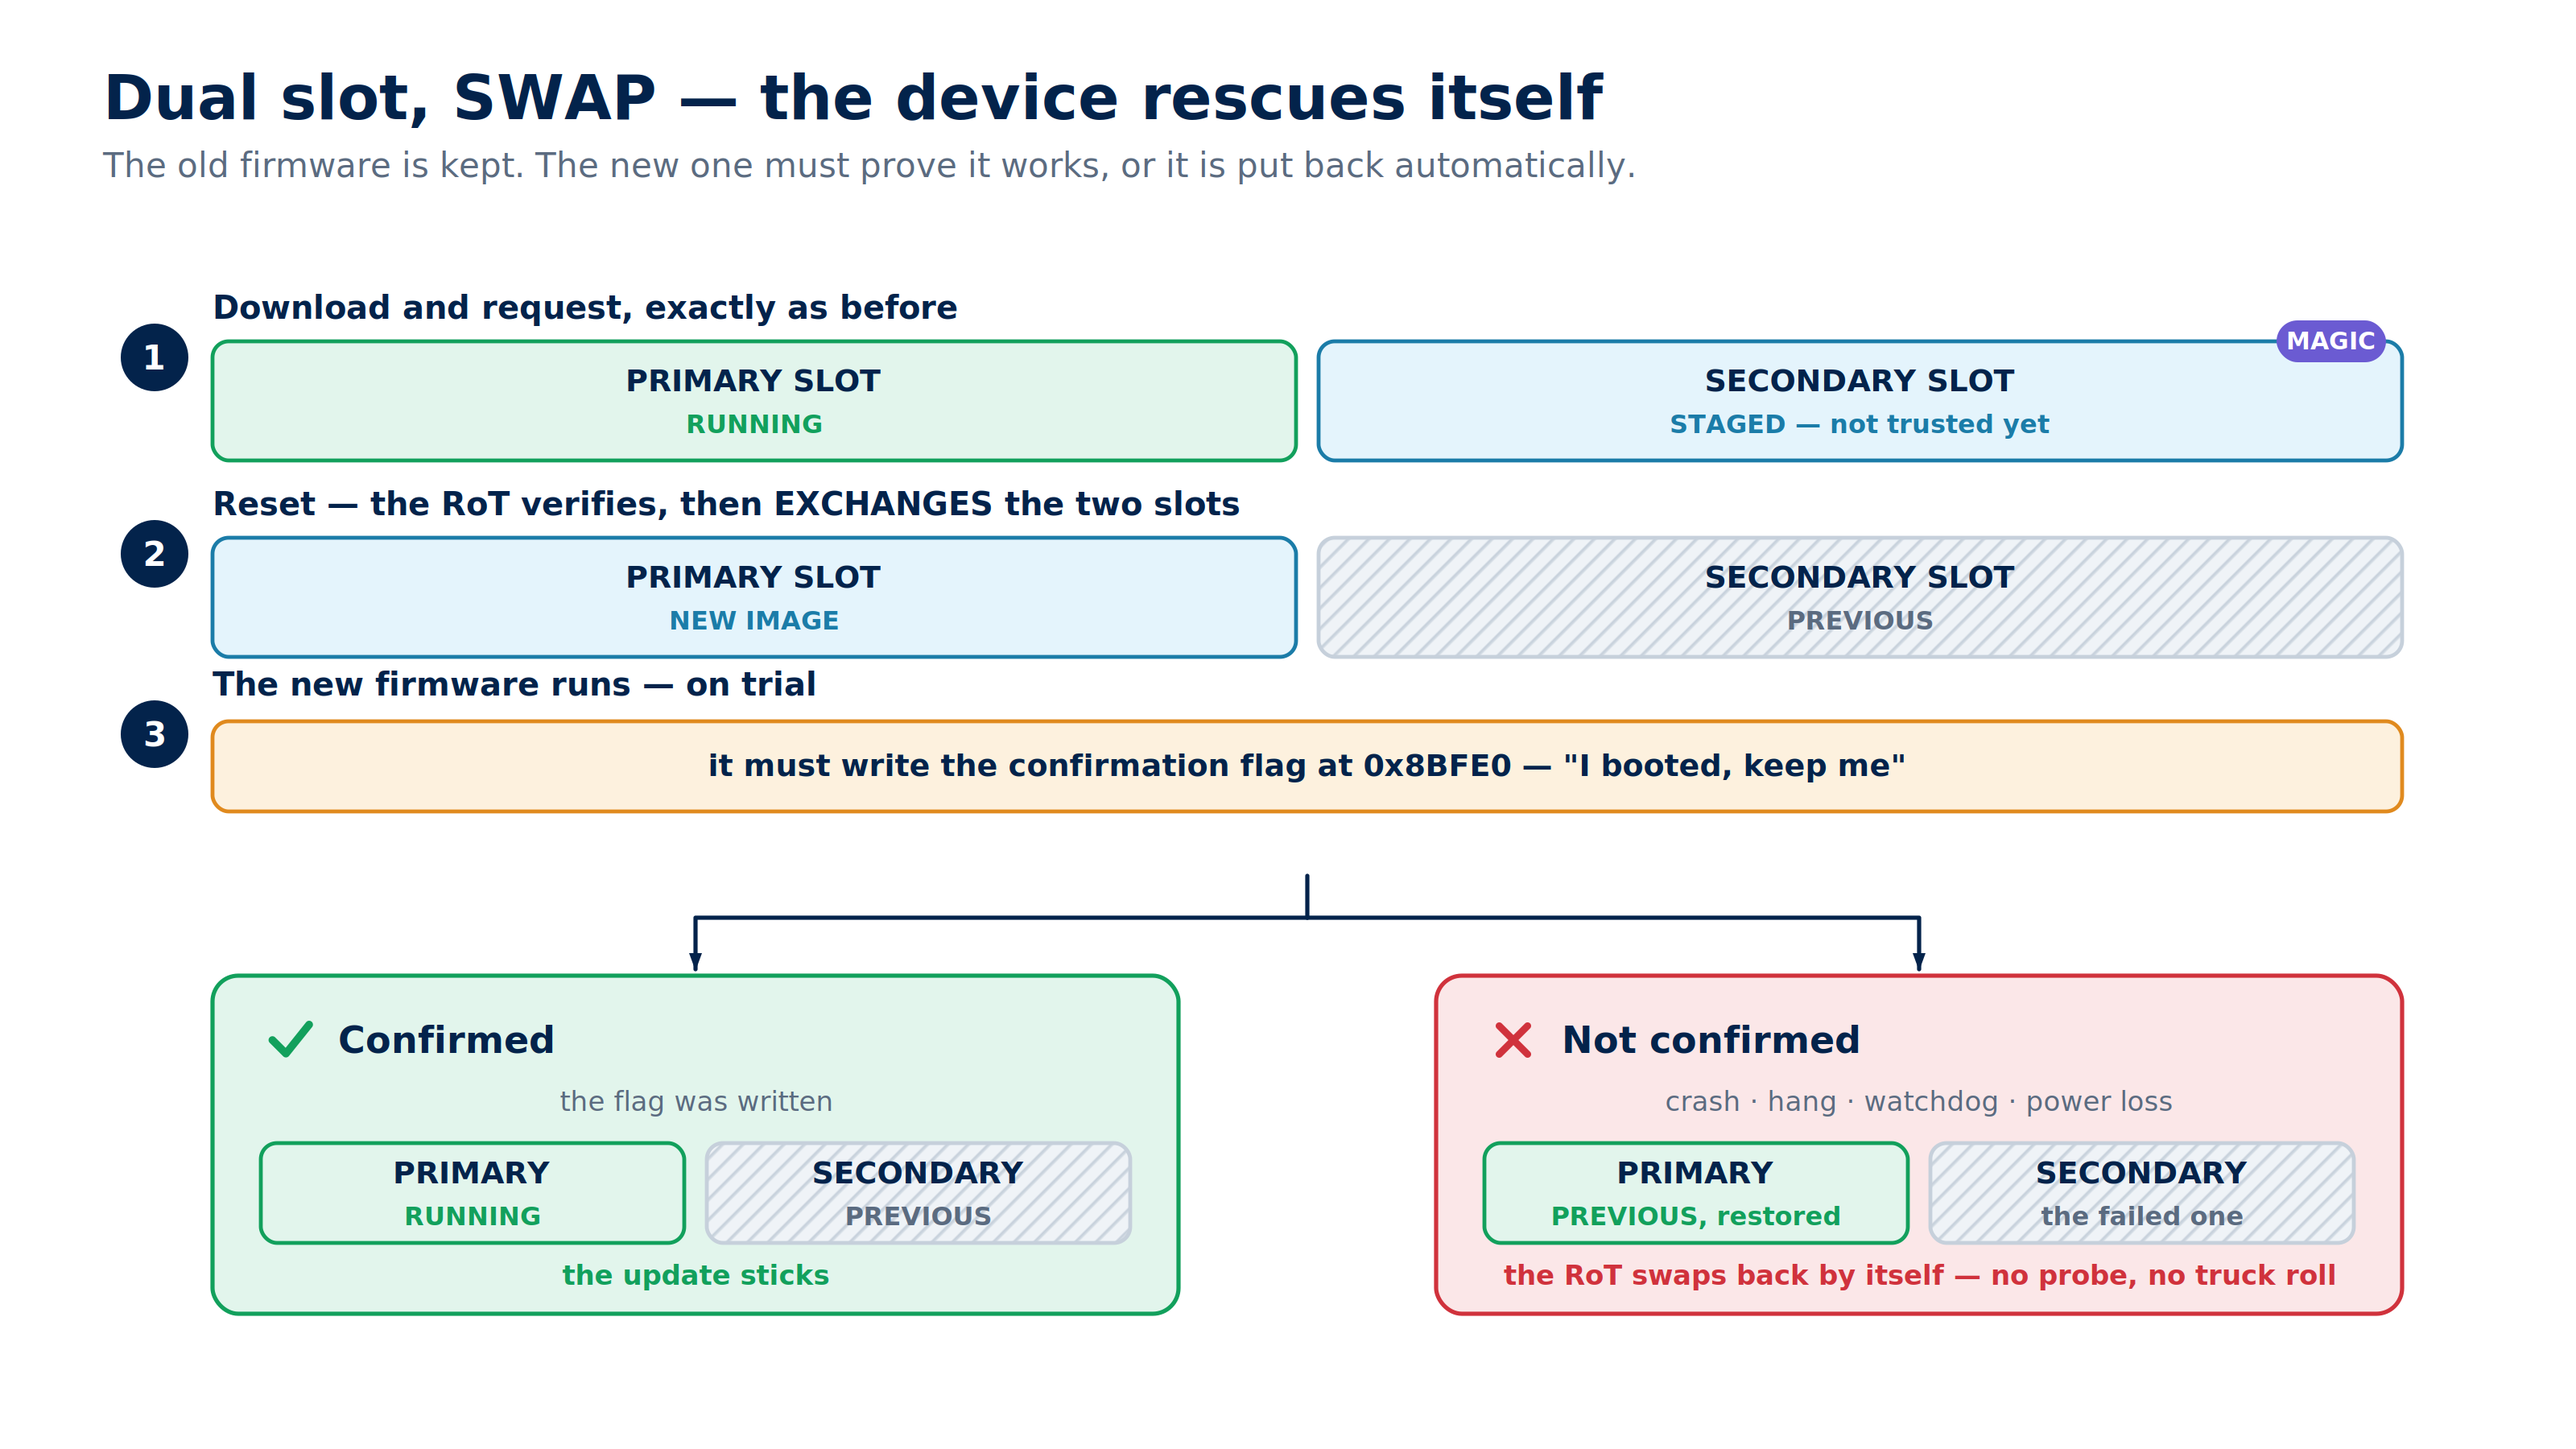
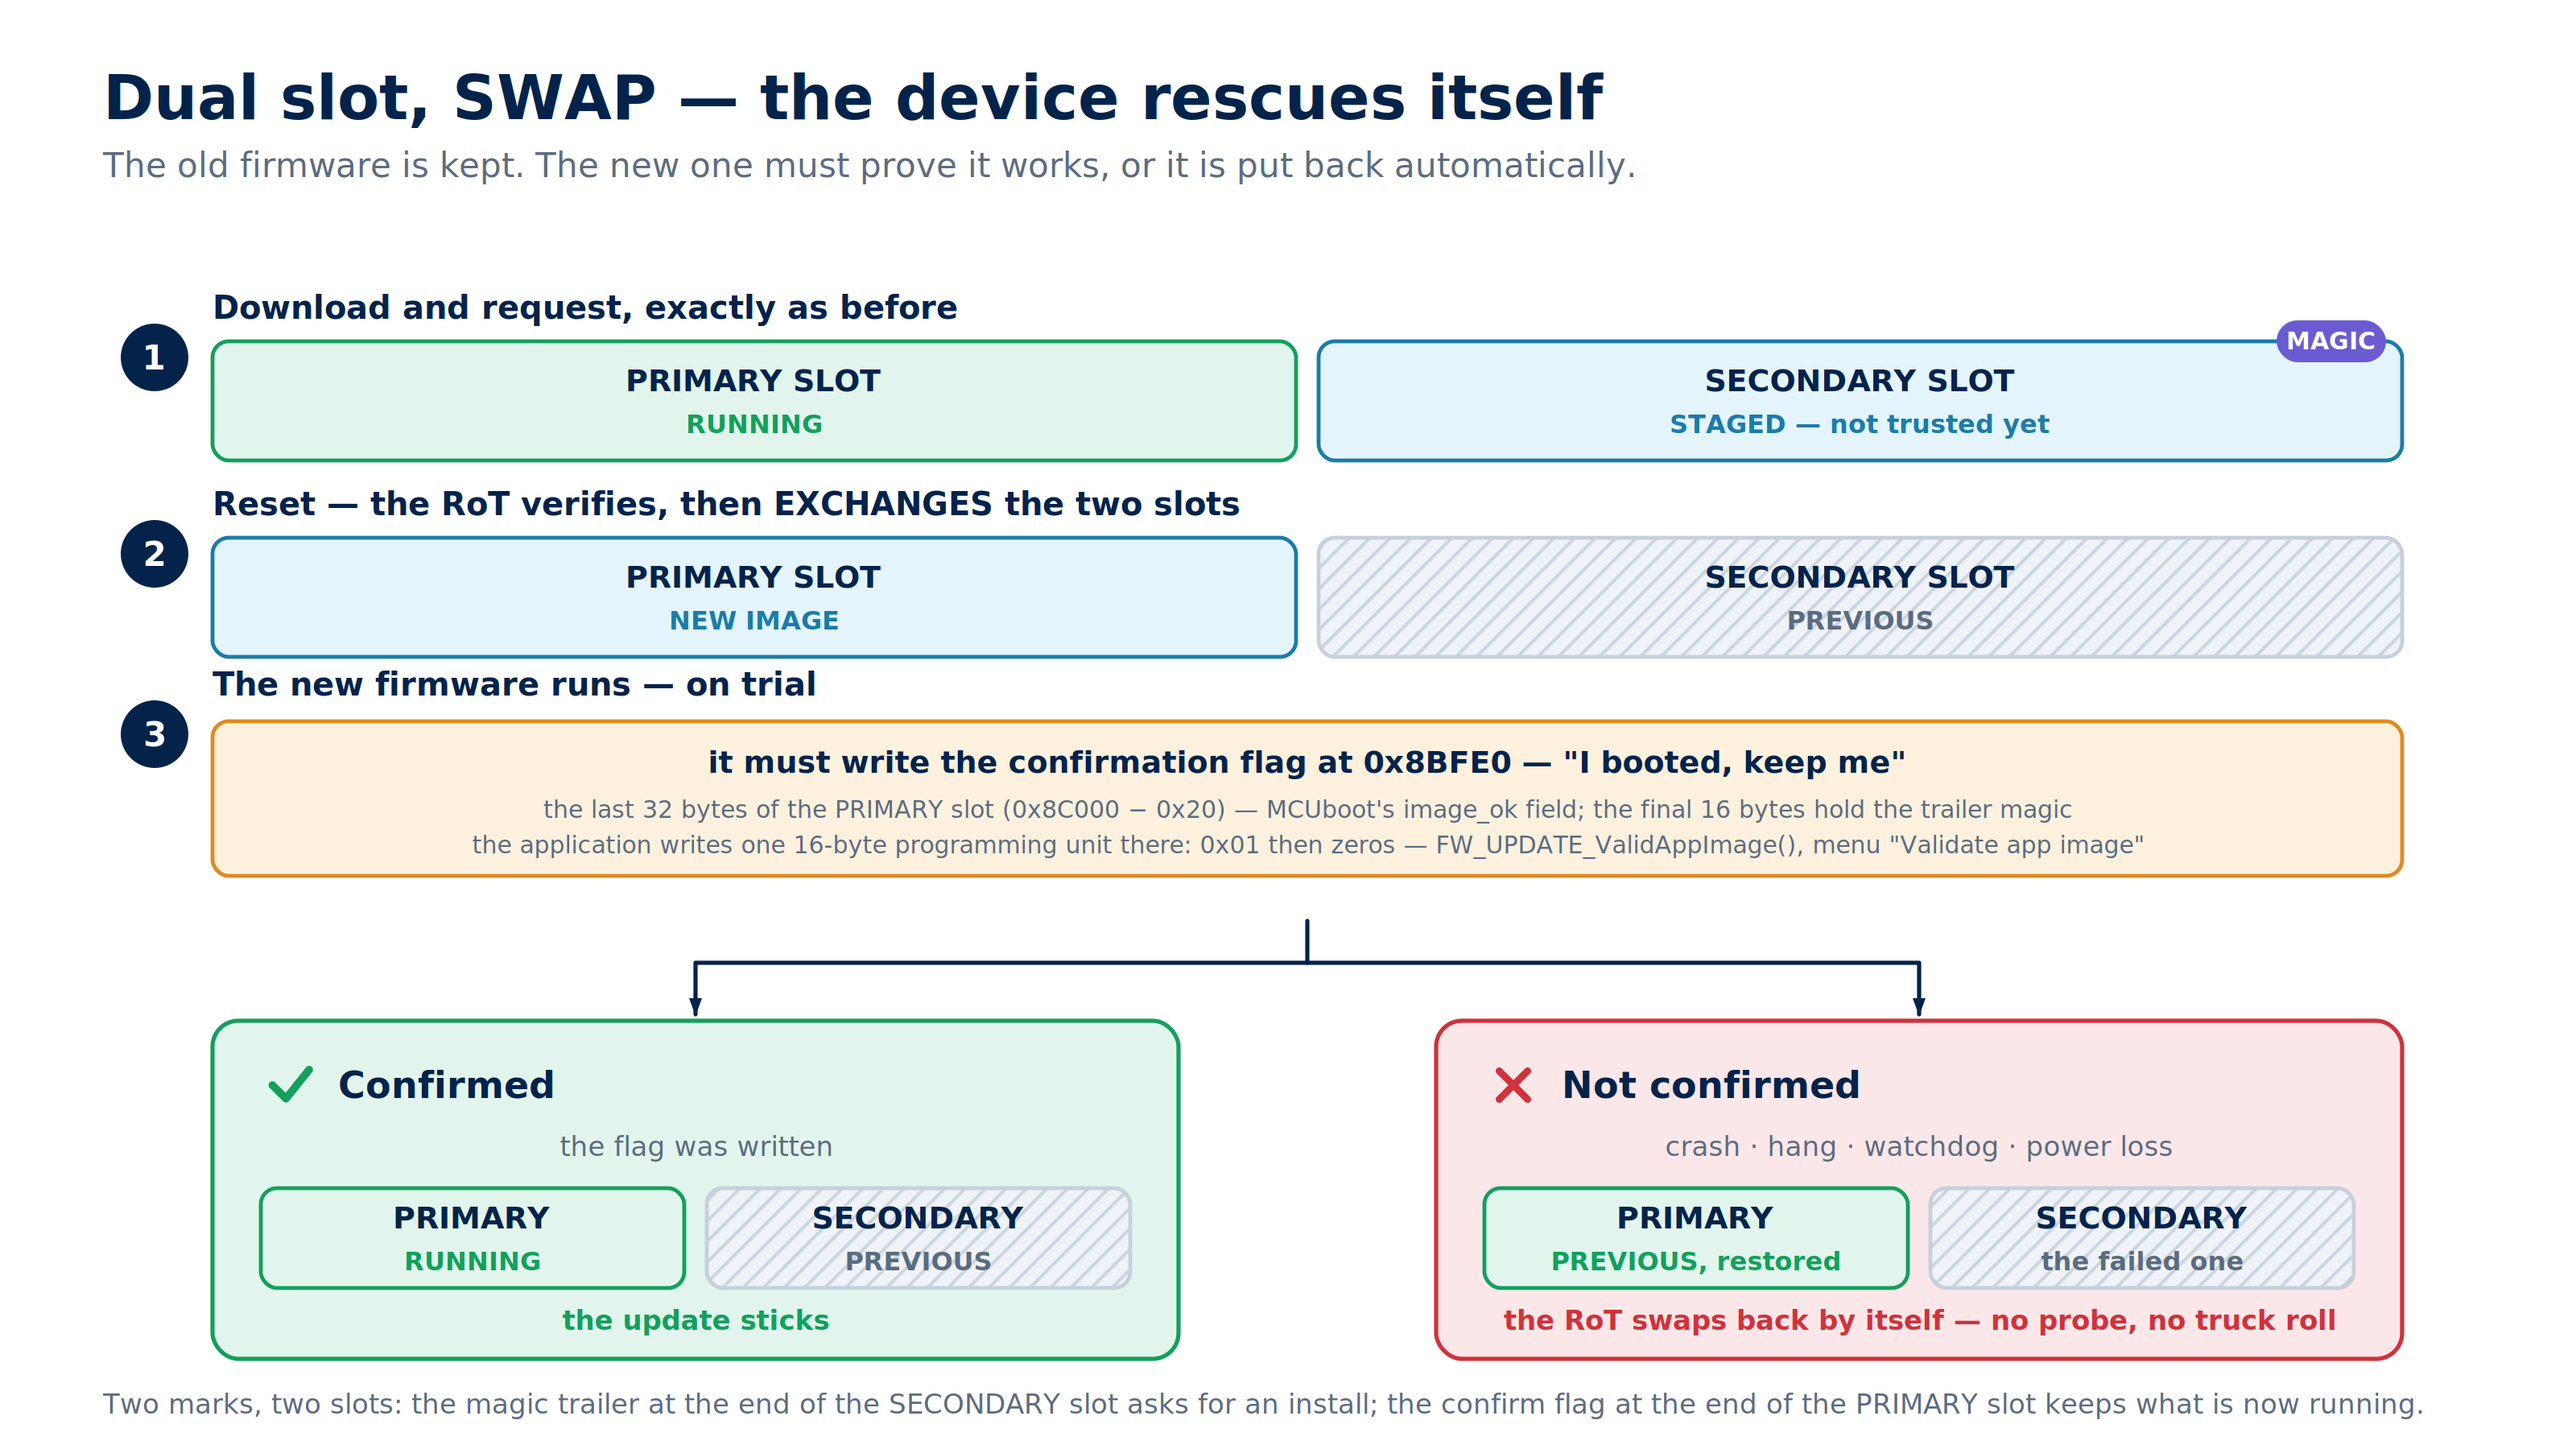
Explain the confirm-flag address on the swap slide and in UPDATE_FLOWS
0x8BFE0 is the last 32 bytes of the primary slot (0x8C000 - 0x20), which
is MCUboot's image_ok field: the trailer is laid out backwards from the
slot end, one 16-byte programming unit per field, with the magic in the
final 16 bytes at 0x8BFF0.

Annotate the swap sequence diagram with that derivation and with who
writes it - the application itself, into the slot it runs from, via
FW_UPDATE_ValidAppImage() and the "Validate app image" menu entry, one
16-byte unit holding 0x01 then zeros. Add a closing line contrasting the
two marks: the magic trailer ends the secondary slot and asks for an
install, the confirm flag ends the primary slot and keeps what runs.

Add the same as a subsection in UPDATE_FLOWS.md with the trailer layout
table.

Claude-Session: https://claude.ai/code/session_01FwrRPd9LSvTbkxJ9rw1V8p

Changed region(s): [[0.0312, 0.4978, 0.9375, 0.9956]]

diff --git a/examples/advanced/rot/oemirot_dualslot_hwcrypto/doc/diagrams/generate_diagrams.py b/examples/advanced/rot/oemirot_dualslot_hwcrypto/doc/diagrams/generate_diagrams.py
@@ -517,11 +517,17 @@ def d06_swap():
 
     o += step_dot(96, y + 30, 3, color=INK)
     o += text(132, y + 6, "The new firmware runs — on trial", size=20, weight="700", anchor="start")
-    o += rect(132, y + 22, 1360, 56, fill=AMBER_LT, stroke=AMBER, rx=10, sw=2.4)
-    o += text(812, y + 56, "it must write the confirmation flag at 0x8BFE0  —  \"I booted, keep me\"",
+    o += rect(132, y + 22, 1360, 96, fill=AMBER_LT, stroke=AMBER, rx=10, sw=2.4)
+    o += text(812, y + 54, "it must write the confirmation flag at 0x8BFE0  —  \"I booted, keep me\"",
               size=19, fill=INK, weight="600")
+    o += text(812, y + 82,
+              "the last 32 bytes of the PRIMARY slot (0x8C000 − 0x20) — MCUboot's image_ok field; the final 16 bytes hold the trailer magic",
+              size=15, fill=INK_SOFT)
+    o += text(812, y + 104,
+              "the application writes one 16-byte programming unit there: 0x01 then zeros — FW_UPDATE_ValidAppImage(), menu \"Validate app image\"",
+              size=15, fill=INK_SOFT)
 
-    yb = y + 118
+    yb = y + 146
     o += line(812, yb, 812, yb + 26, color=INK, sw=2.6)
     o += path(f"M812,{yb+26} L432,{yb+26} L432,{yb+58}", stroke=INK, sw=2.6, marker="arInk")
     o += path(f"M812,{yb+26} L1192,{yb+26} L1192,{yb+58}", stroke=INK, sw=2.6, marker="arInk")
@@ -542,6 +548,10 @@ def d06_swap():
                    note1="PREVIOUS, restored", note2="the failed one")
     o += text(1192, ybox + 192, "the RoT swaps back by itself — no probe, no truck roll",
               size=17, fill=RED, weight="700")
+
+    o += text(64, 878,
+              "Two marks, two slots: the magic trailer at the end of the SECONDARY slot asks for an install; the confirm flag at the end of the PRIMARY slot keeps what is now running.",
+              size=17, fill=INK_SOFT, anchor="start")
     return write("06-swap-sequence", o)
 
 

diff --git a/examples/advanced/rot/oemirot_dualslot_hwcrypto/UPDATE_FLOWS.md b/examples/advanced/rot/oemirot_dualslot_hwcrypto/UPDATE_FLOWS.md
@@ -241,6 +241,31 @@ STEP 8    the new firmware proves itself:
    └────────┴────────┘           └────────┴────────┘
 ```
 
+#### Why `0x8BFE0`, and who writes there
+
+It is not an arbitrary address: it is the **last 32 bytes of the primary slot**.
+The slot ends at `0x18000 + 0x74000 = 0x8C000`, and MCUboot's trailer is laid out
+backwards from that end, one flash programming unit (16 bytes here) per field:
+
+| Address | Field |
+|---|---|
+| `0x8BFF0` | trailer magic — the final 16 bytes of the slot |
+| **`0x8BFE0`** | **`image_ok`** — "this image is confirmed" |
+| `0x8BFD0` | `copy_done` |
+
+So `FLASH_PRIMARY_APP_CONFIRM_OFFSET` is simply `image_ok`'s slot in that trailer.
+
+**The application writes it**, into the slot it is itself running from —
+`FW_UPDATE_ValidAppImage()` in `appli/fw_update_app.c`, reachable from the
+"Validate app image" menu entry. It programs one 16-byte unit: `0x01` followed by
+zeros (`const uint8_t FlagPattern[FLASH_PROG_SIZE] = {0x1};`). 16 bytes because that
+is the flash's minimum programming granularity on this part, which is also why each
+trailer field is padded to 16.
+
+Note the symmetry with the magic trailer, and the difference: the magic goes at the end
+of the **secondary** slot and means *"please install this"*; the confirm flag goes at the
+end of the **primary** slot and means *"keep what is now running"*.
+
 ### Cost of this safety net
 
 - The swap moves roughly **twice** the data of an overwrite → slower install.
